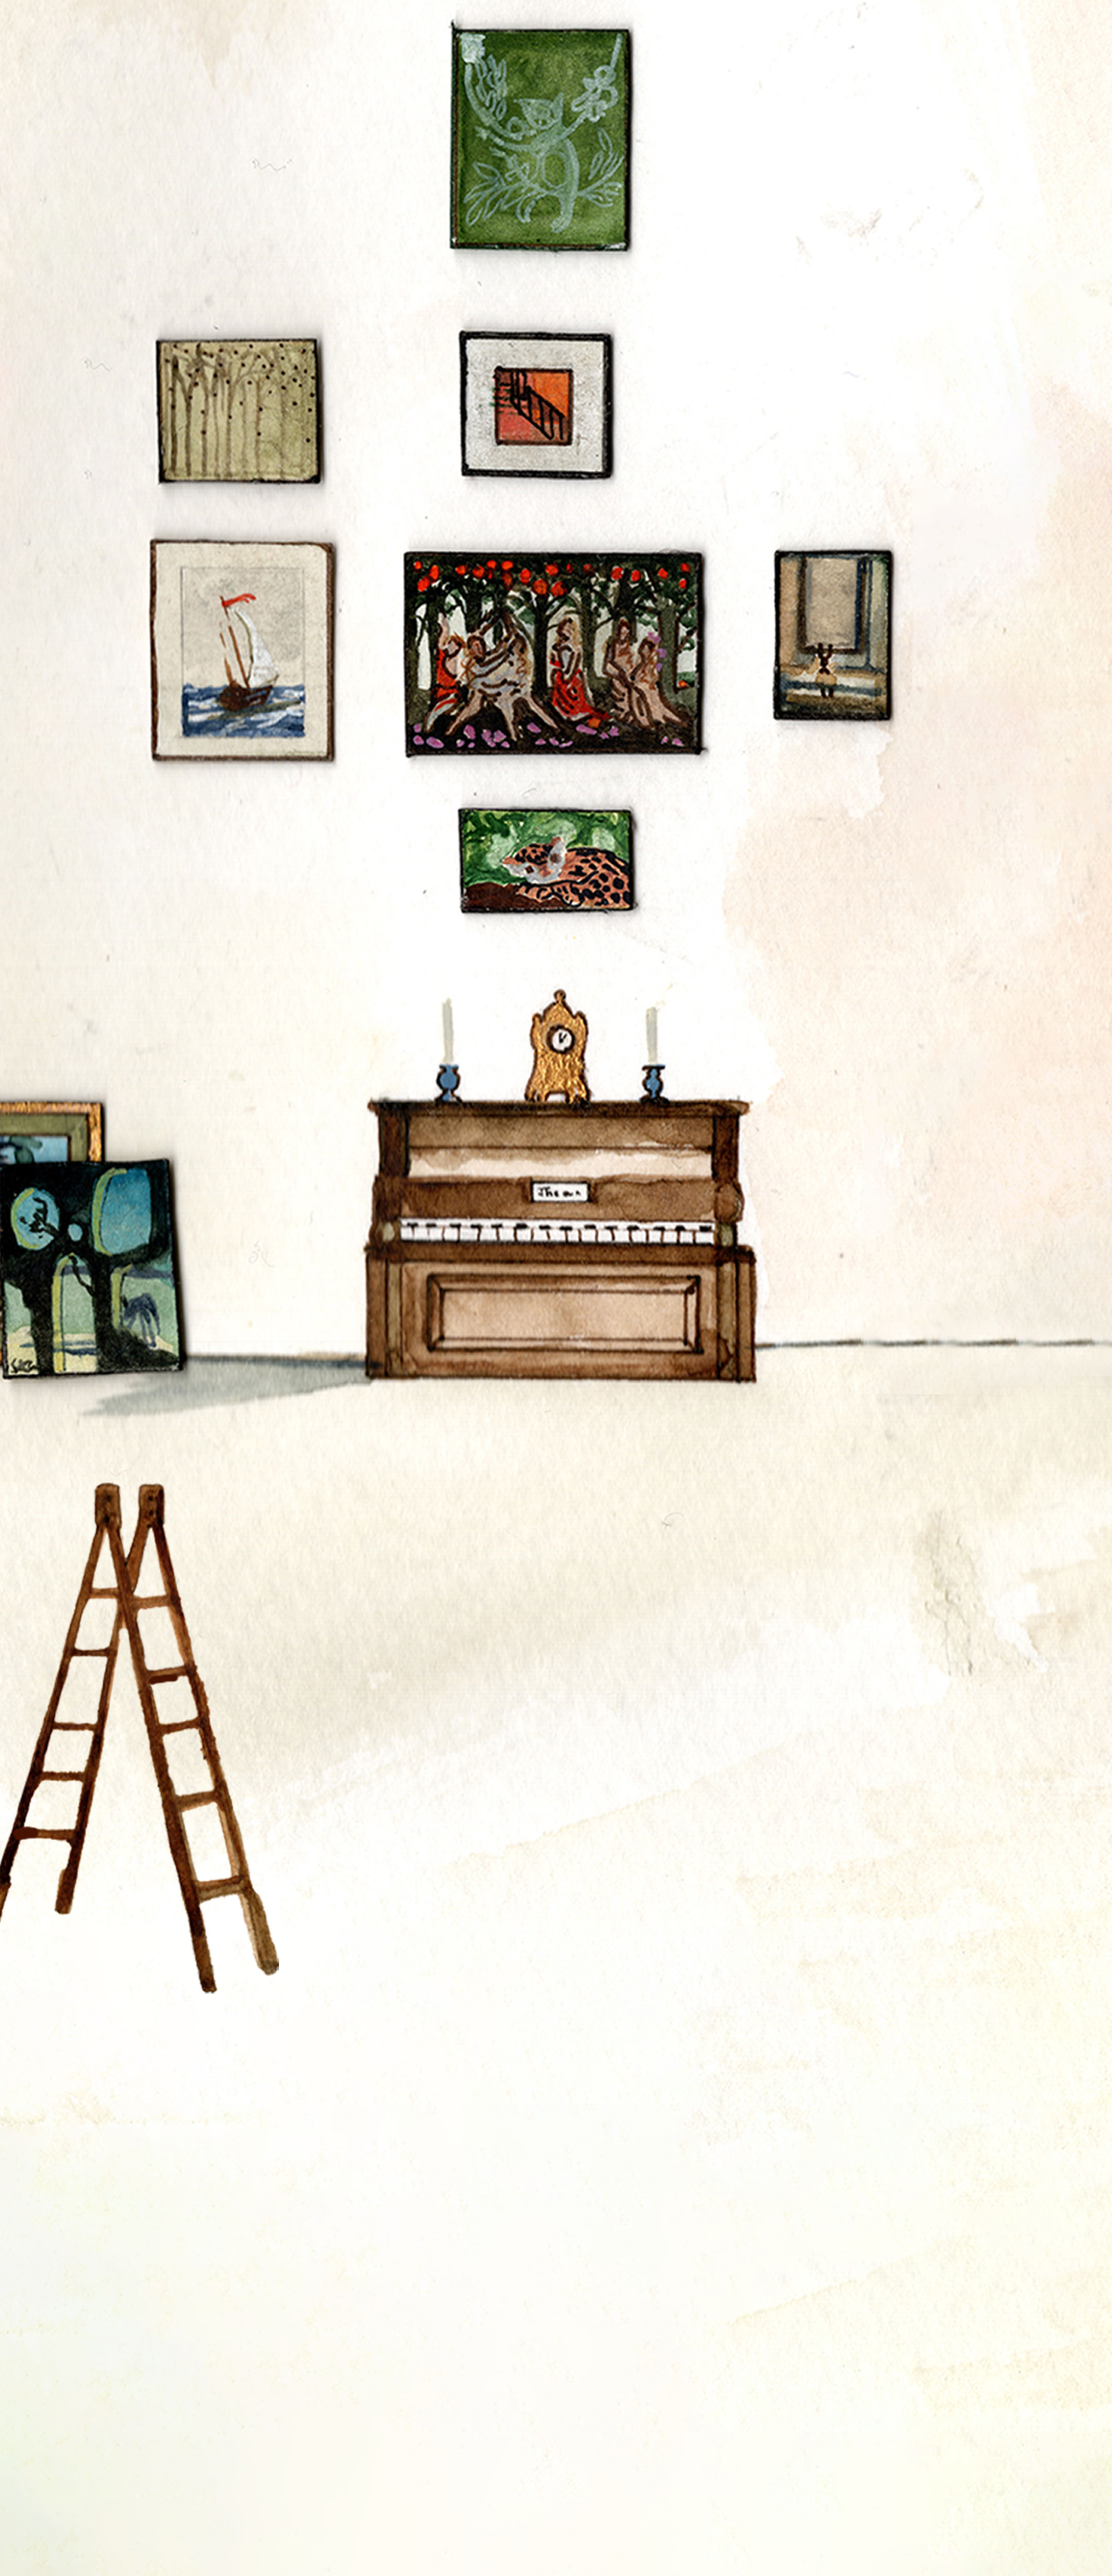
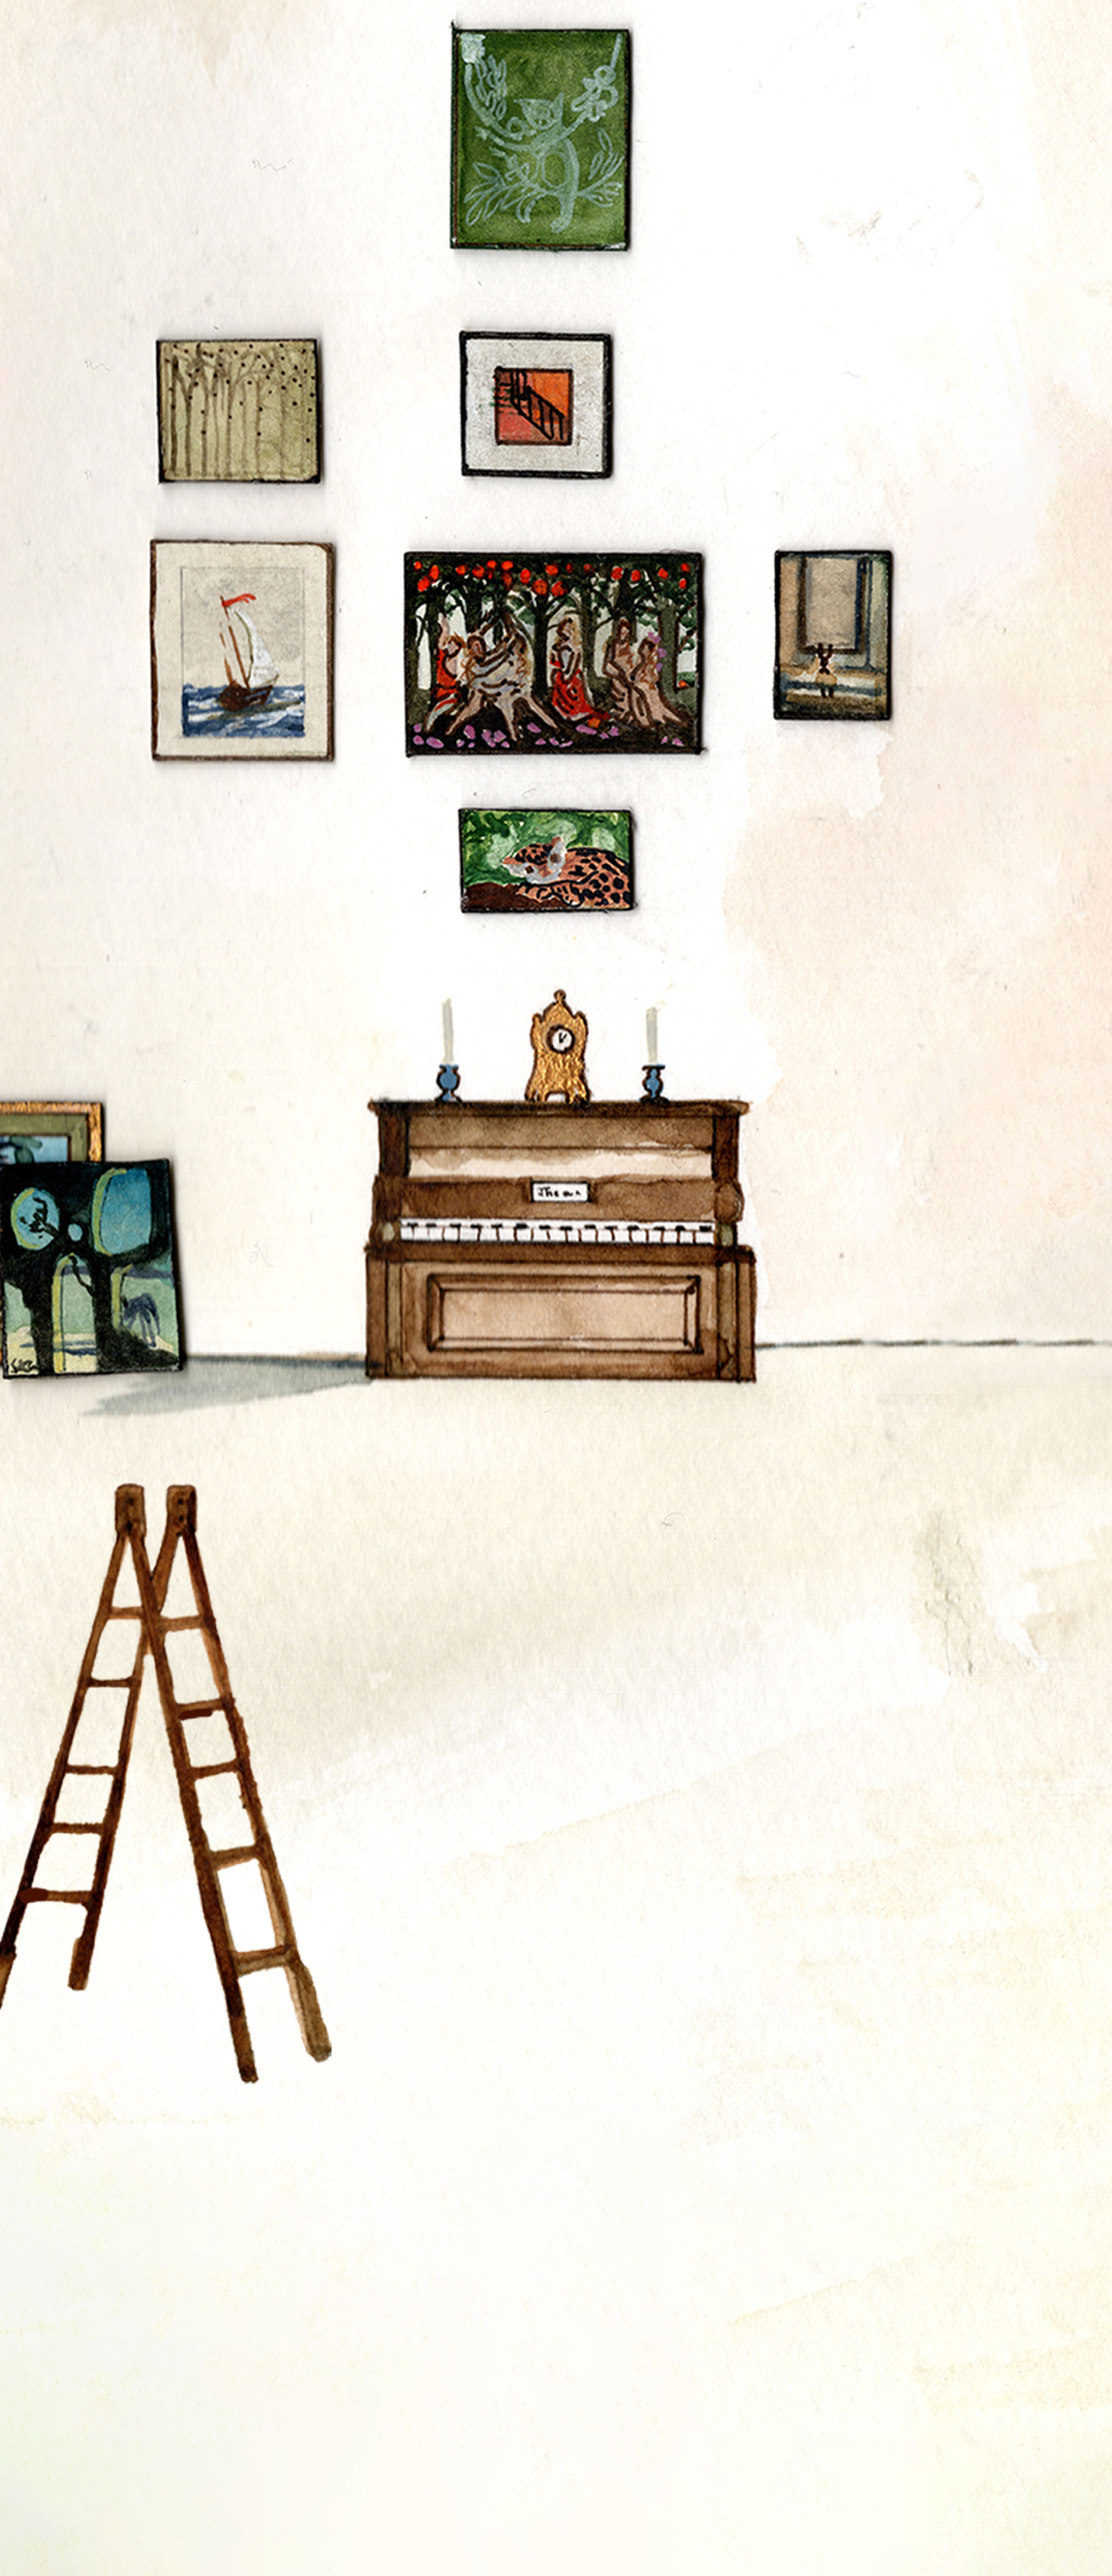
more tweaks

Changed region(s): [[0.0, 0.5616, 0.3102, 0.8112]]

diff --git a/components/HomePage/HomePage.js b/components/HomePage/HomePage.js
@@ -467,7 +467,7 @@ export const HomePage = () => {
           onClick={playMusic}
           width="1194"
           height="877"
-          transform="translate(904 941) scale(.12)"
+          transform="translate(904 941) scale(.13)"
           xlinkHref="https://theamallorie.flywheelsites.com/wp-content/uploads/2023/12/vinyl.png"
         />
         <a href="studio">
@@ -494,7 +494,7 @@ export const HomePage = () => {
             // onMouseLeave={() => portfolioUnHover()}
             width="1974"
             height="1755"
-            transform="translate(101 1146) scale(.195)"
+            transform="translate(125 1166) scale(.215)"
             xlinkHref="https://theamallorie.flywheelsites.com/wp-content/uploads/2023/12/portfolio2.png"
           />
         </a>
@@ -522,7 +522,7 @@ export const HomePage = () => {
             // onMouseLeave={() => servicesUnHover()}
             width="1196"
             height="1209"
-            transform="translate(537.91 1154) scale(.23)"
+            transform="translate(579 1129) scale(.26)"
             xlinkHref="https://theamallorie.flywheelsites.com/wp-content/uploads/2023/12/services2-1.png"
           />
         </a>
@@ -536,7 +536,7 @@ export const HomePage = () => {
             // onMouseLeave={() => contactUnHover()}
             width="1722"
             height="995"
-            transform="translate(491.04 1470) scale(.24)"
+            transform="translate(491 1495) scale(.28)"
             xlinkHref="https://theamallorie.flywheelsites.com/wp-content/uploads/2023/12/contact2.png"
           />
         </a>
